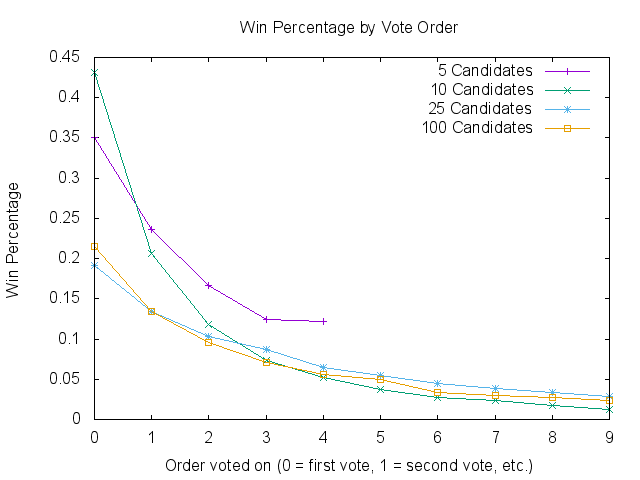
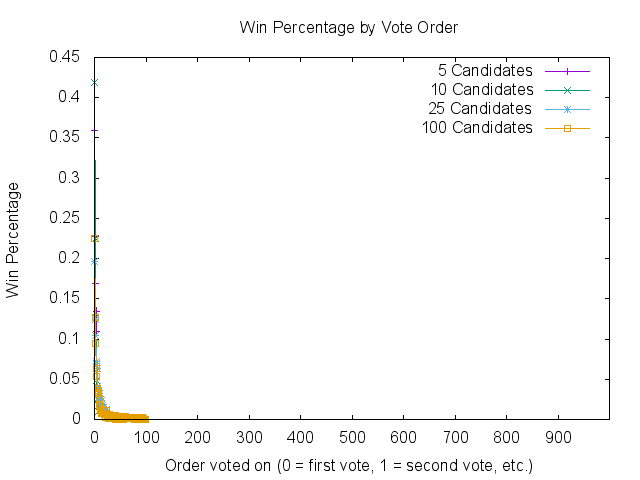
induction solver last rev

diff --git a/induction_solver.rb b/induction_solver.rb
@@ -135,10 +135,10 @@ Gnuplot.open do |gp|
   
 	candidate_trials = [5, 10, 25, 100]
     #candidate_trials = [5, 6, 7, 8, 9, 10]
-    #candidate_trials = [100]
+    #candidate_trials = [400]
     title_string = candidate_trials.join("_")
 	
-	num_points = 100
+	num_points = 10
     
     plot.terminal "png"
     plot.output File.expand_path("../" + title_string + "_win_percentage.png", __FILE__)
